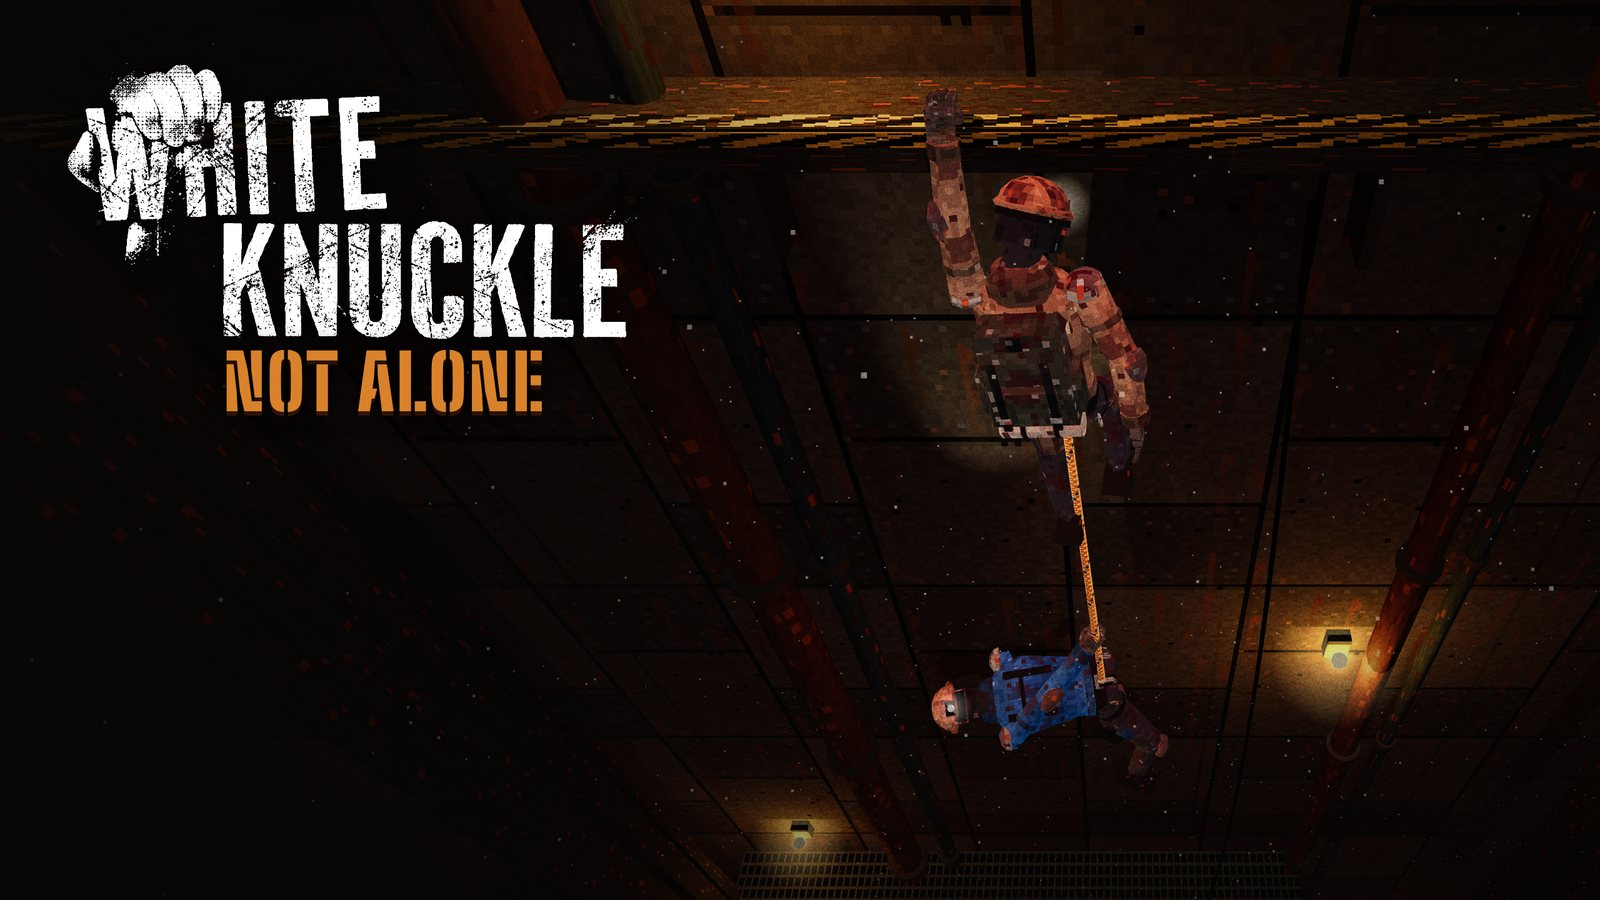
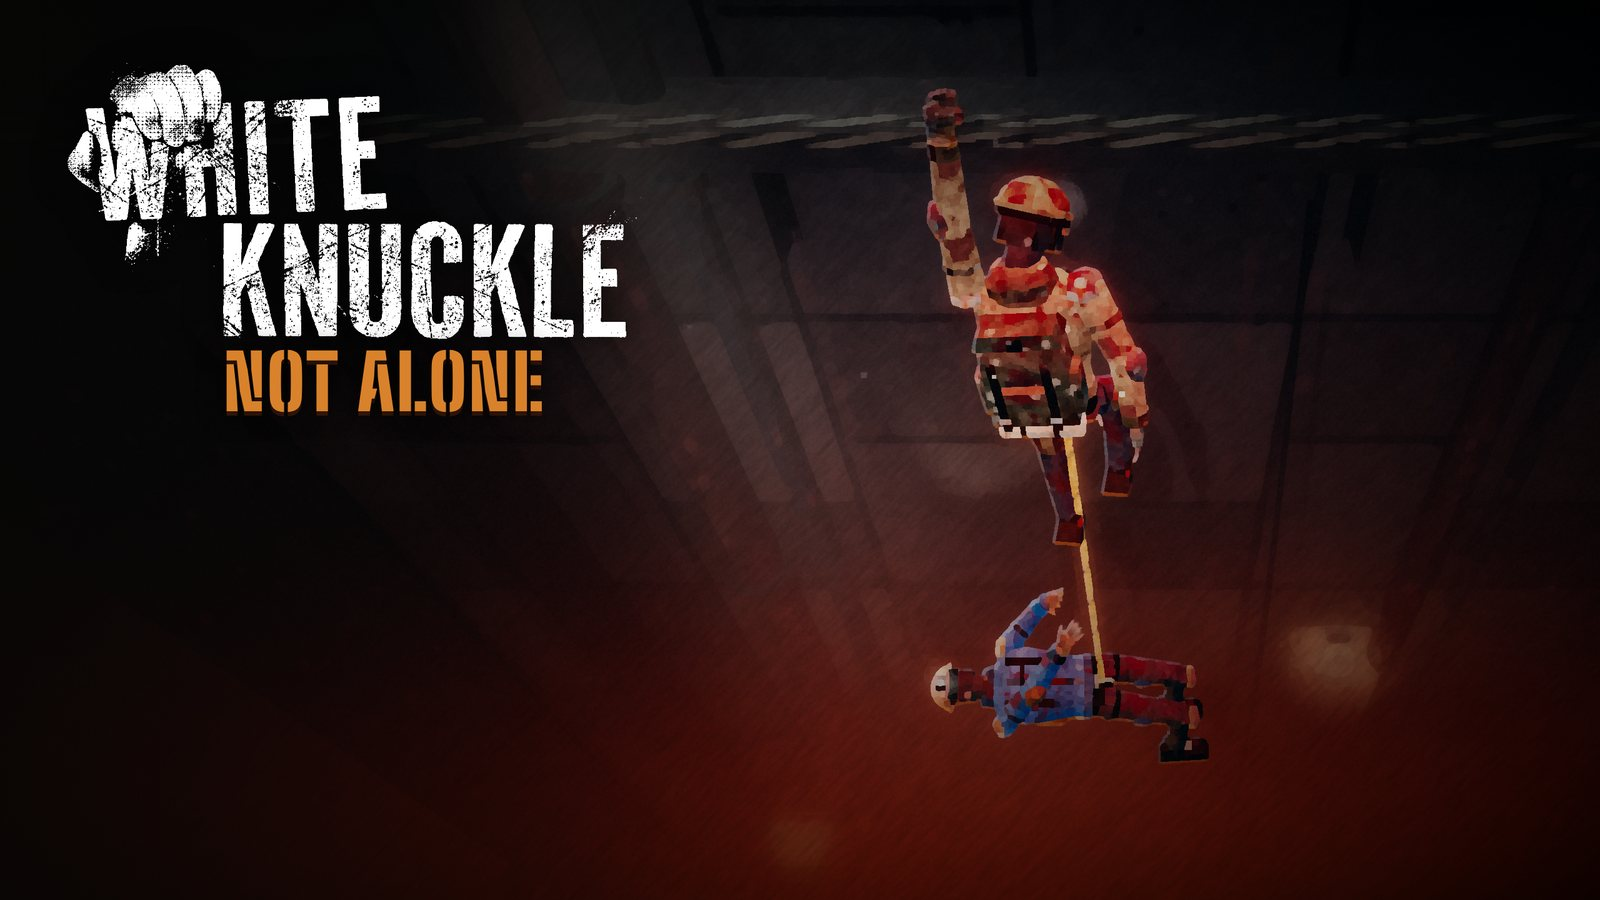
Swap the hero and share image for the cinematic Not Alone cover
Claude-Session: https://claude.ai/code/session_01AtMEDzVfDRq3MxqB2bY62K

diff --git a/index.html b/index.html
@@ -309,7 +309,7 @@
     <figure class="cover">
       <picture>
         <source srcset="cover.webp" type="image/webp">
-        <img src="cover.jpg" alt="White Knuckle: Not Alone cover art. One climber hangs from a pipe while a teammate dangles below on the rope." width="1600" height="900" fetchpriority="high">
+        <img src="cover.jpg" alt="White Knuckle: Not Alone cover art. One climber hangs on by one hand while a teammate dangles below on the rope." width="1600" height="900" fetchpriority="high">
       </picture>
     </figure>
   </div>

diff --git a/README.md b/README.md
@@ -5,7 +5,7 @@ This repo hosts the download page for Tethered, the co-op mod for White Knuckle,
 | Path | What it does |
 | --- | --- |
 | `index.html` | The page. Reads releases, download links and the changelog from `elgore319/Belay_Mod` releases at load (`REPO` near the bottom of the file). |
-| `cover.jpg`, `cover.webp` | Hero cover art (White Knuckle: Not Alone, 1600x900). `climber.png` is the old hero image, no longer used. |
+| `cover.jpg`, `cover.webp` | Hero cover art (White Knuckle: Not Alone cinematic cover, 1600x900). `climber.png` is the old hero image, no longer used. |
 | `LICENSE.txt`, `THIRD-PARTY-NOTICES.txt` | Linked from the page footer. |
 
 The Noita wand calculator that used to live here is kept on the `backup/wand-calculator-2026-11-12` branch. To bring it back, restore that branch's files onto `main`.
